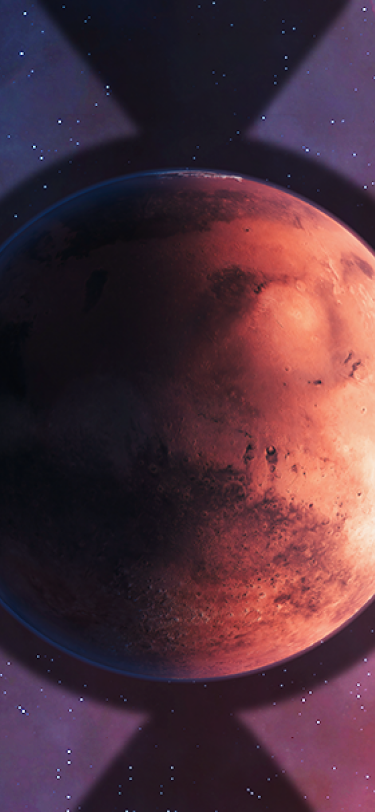
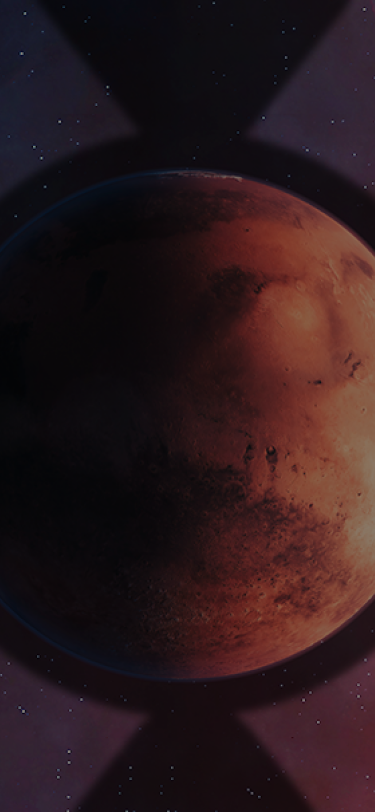
fixed Background color

diff --git a/css/style.css b/css/style.css
@@ -21,13 +21,9 @@ body{
    color: #fff;
    margin: 0;
 }
-/* .bg {
-    position: absolute;
-    width:100vw;
-    height: 100%;
-    background: rgba(0, 0, 0, 0.6);
 
-} */
+
+
 
 .large-header {
     height: 100vh;
@@ -296,8 +292,10 @@ footer .socialIcons ul li img::selection{
         display: inline;
     }
 
+    html {
+    }
     body{
-        background-image: url('../img/mainbackgroundM.png');
+        background-image: url('../img/mainbackgroundM.png' )  ;
         background-size: cover;
         background-repeat: no-repeat;
         display: flex;
@@ -308,6 +306,7 @@ footer .socialIcons ul li img::selection{
         color: #fff;
         /* overflow: hidden; */
     }
+    
     .container{
         /* background: linear-gradient(90.14deg, rgba(0, 0, 0, 0.77) 14.23%, rgba(0, 0, 0, 0) 74.85%, rgba(0, 0, 0, 0) 74.85%);; */
         margin: 0;

diff --git a/index.html b/index.html
@@ -15,7 +15,6 @@
     
 </head>
 <body >
-  <!-- <div class="bg"> -->
   <div id="large-header" class="large-header not_MB">
     <canvas id="demo-canvas"></canvas> 
   </div>
@@ -120,6 +119,5 @@
       })
     </script>
 
-<!-- </div> -->
 </body>
 </html>
